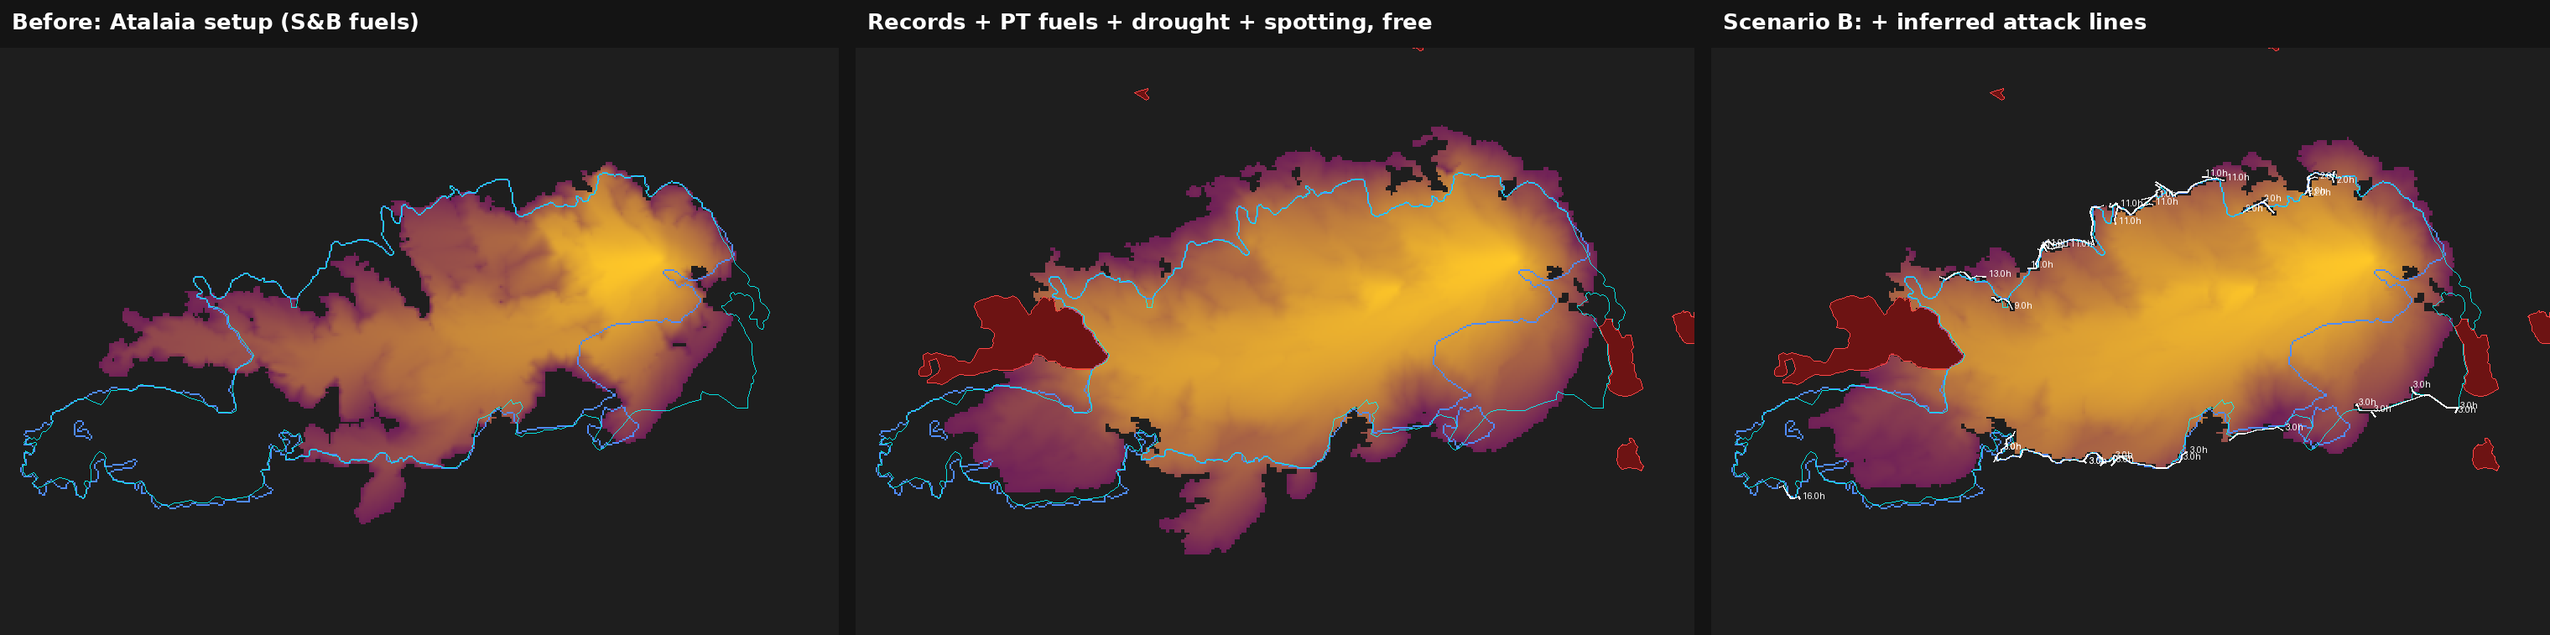
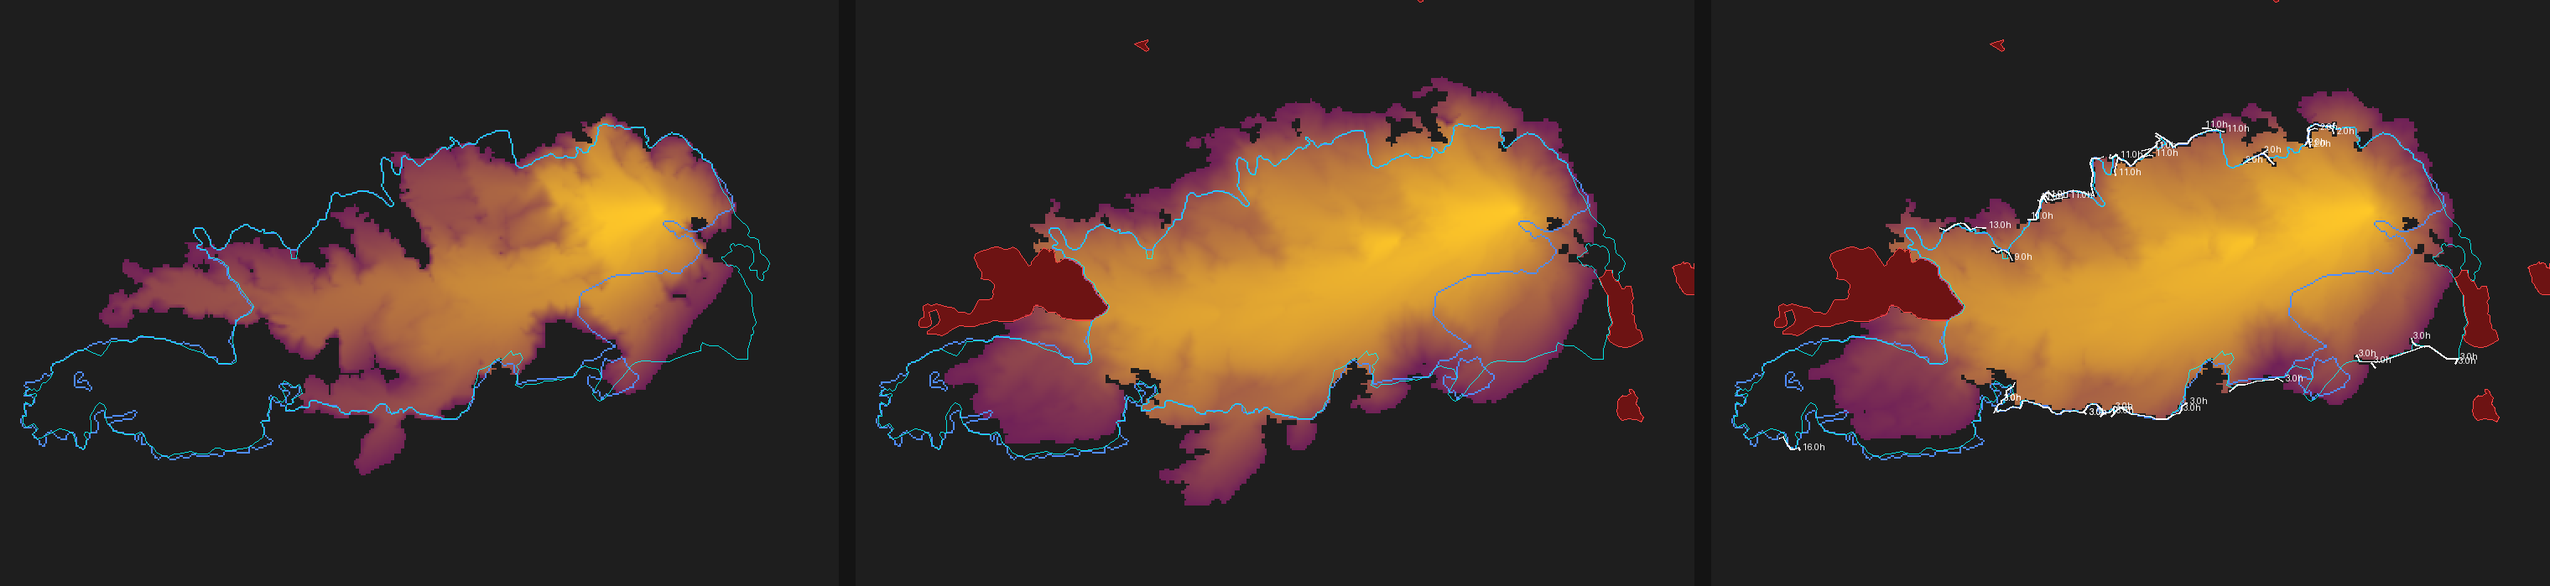
pitch: afinações de layout e conteúdo em vários slides
- Slide 2: aperta o espaço entre os grupos de dígitos dos números
  grandes (word-spacing negativo), que ficava muito largo com a
  fonte mono.
- Slide 5: as três pílulas (Rápida, Precisa, Prática) revelam-se uma
  de cada vez em vez de todas juntas.
- Slide 7 (proposta): números do roadmap maiores, sem o tracejado
  por trás; frase "Dados reais. Meios reais. Um só mapa." maior e
  centrada; acrescenta a frase sobre dados precisos e meios
  disponíveis por quartel ao guião.
- Slide 9 (validação): corta os títulos em inglês gravados nos
  pixéis da imagem (crop dos primeiros 58px); as setas passam a
  nomear a medida acrescentada ("+ Dados públicos", "+ Linhas de
  ataque") em letra maior.
- Slide 10 (tecnologia): mais espaço entre o título e os 4 cartões;
  frase de fecho mais para baixo e maior.
- Separa o antigo slide "a seguir + fecho" em dois: o roadmap fica
  sozinho (com o passo 2 reescrito para "Ferramenta de testes para
  potenciais cenários futuros"), e a frase de fecho ganha um slide
  próprio com "Obrigado."; números do roadmap maiores, sem
  tracejado, como no slide 7.
- Créditos: letra maior, remove o marcador ".tbd" sobre o ILS (já
  documentado como implementado) e a frase "como as regras pedem";
  crédito de IA passa a "Claude, Gemini e ChatGPT".

diff --git a/pitch/index.html b/pitch/index.html
@@ -123,6 +123,7 @@
 
     /* 2 · número grande */
     .big { font-family: var(--display); font-size: 4.2em; font-weight: 800; line-height: 1; letter-spacing: -0.01em; color: var(--ink); }
+    .big .count { word-spacing: -0.4em; }
     .big .unit { font-size: 0.35em; font-weight: 600; color: var(--ink-dim); letter-spacing: 0; }
     .row { display: flex; gap: 2.2em; align-items: flex-end; }
     .lead { font-size: 1.15em; font-weight: 600; color: var(--ink); margin: 0 0 0.3em; }
@@ -197,8 +198,8 @@
     .roadmap.visible .stop { animation: stop-in .45s ease forwards; }
     .roadmap .track { width: 0; height: 16px; margin-left: calc(.55em - 1px); border-left: 2px dashed var(--ink-faint); opacity: 0; transform: scaleY(0); transform-origin: top; }
     .roadmap.visible .track { animation: track-grow .35s ease forwards; }
-    .roadmap .node { flex: 0 0 auto; width: 1.1em; height: 1.1em; border-radius: 50%; border: 2px solid var(--ink-faint); display: flex; align-items: center; justify-content: center; font-family: var(--mono); font-size: .4em; color: var(--ink-dim); background: var(--bg); }
-    .roadmap .label { font-size: 1.3em; font-weight: 700; letter-spacing: -.01em; }
+    .roadmap .node { flex: 0 0 auto; width: 1.5em; height: 1.5em; border-radius: 50%; border: 2px solid var(--ink-faint); display: flex; align-items: center; justify-content: center; font-family: var(--mono); font-size: .6em; color: var(--ink-dim); background: var(--bg); }
+    .roadmap .label { font-size: 1.45em; font-weight: 700; letter-spacing: -.01em; }
     .roadmap .stop.final .node { border-color: var(--amber); color: var(--bg); background: var(--amber); box-shadow: 0 0 14px rgba(240, 163, 58, .55); }
     .roadmap .stop.final .label { color: var(--amber); }
     @keyframes stop-in { to { opacity: 1; transform: none; } }
@@ -207,7 +208,7 @@
     .roadmap.horizontal { display: flex; align-items: flex-start; }
     .roadmap.horizontal .stop { flex: 1 1 0; flex-direction: column; align-items: flex-start; gap: .5em; transform: translateY(-10px); }
     .roadmap.horizontal .stop.final { flex: 0 1 auto; }
-    .roadmap.horizontal .track { flex: 0 0 36px; width: auto; height: 0; margin: .55em -.2em 0; border-left: none; border-top: 2px dashed var(--ink-faint); transform: scaleX(0); transform-origin: left; }
+    .roadmap.horizontal .track { flex: 0 0 36px; width: auto; height: 0; margin: .55em -.2em 0; border: none; }
     .roadmap.horizontal .label { font-size: .85em; line-height: 1.3; max-width: 13em; }
     @keyframes stop-in-h { to { opacity: 1; transform: none; } }
     @keyframes track-grow-h { to { opacity: 1; transform: scaleX(1); } }
@@ -225,8 +226,8 @@
     .flow .step h3 { font-size: .85em; margin: 0 0 .3em; }
     .flow .step p { font-size: .55em; color: var(--ink-dim); margin: 0; line-height: 1.35; }
     .flow .step .step-src { font-family: var(--mono); font-size: .36em; letter-spacing: .03em; color: var(--ink-dim); margin-top: .6em; line-height: 1.4; }
-    .punch { margin-top: 1.3em; }
-    .punch .line { font-size: 1.15em; font-weight: 700; }
+    .punch { margin-top: 1.3em; text-align: center; }
+    .punch .line { font-size: 1.6em; font-weight: 700; }
     .punch .data-list { margin-top: .7em; font-size: .62em; color: var(--ink); line-height: 1.7; }
     .punch .data-list span:not(:last-child)::after { content: ' · '; color: var(--ink-faint); }
     .punch .who { font-family: var(--mono); font-size: 0.5em; letter-spacing: 0.1em; text-transform: uppercase; color: var(--ink-dim); margin-top: 0.8em; }
@@ -256,9 +257,10 @@
     .accuracy .acc-step { flex: 0 0 auto; }
     .accuracy .acc-n { display: block; font-family: var(--display); font-size: 1.6em; font-weight: 800; letter-spacing: -.01em; }
     .accuracy .acc-step.final .acc-n { color: var(--amber); }
-    .accuracy .acc-arrow { flex: 0 0 7em; text-align: center; padding-top: .05em; }
+    .accuracy .acc-arrow { flex: 0 0 9em; text-align: center; padding-top: .05em; }
     .accuracy .acc-arrow .arr { display: block; font-family: var(--mono); font-size: 1.1em; color: var(--amber); }
-    .accuracy .acc-arrow p { font-size: .4em; color: var(--ink-dim); margin: .25em 0 0; line-height: 1.3; }
+    .accuracy .acc-arrow .acc-name { display: block; font-size: .56em; font-weight: 700; color: var(--ink); margin-top: .3em; }
+    .accuracy .acc-arrow p { font-size: .5em; color: var(--ink-dim); margin: .2em 0 0; line-height: 1.3; }
     .legend b { display: inline-block; width: 12px; height: 12px; margin: 0 0.4em 0 1.2em; vertical-align: -1px; }
     .legend b:first-child { margin-left: 0; }
     .legend .sw { display: inline-block; vertical-align: -1px; margin: 0 0.4em 0 1.2em; }
@@ -270,12 +272,12 @@
     .kpi .l { font-size: 0.5em; color: var(--ink-dim); line-height: 1.3; }
 
     /* 6b · tecnologia: lista leve, sem caixas, traço à esquerda a cor fria (tom informativo, não de alerta) */
-    .tech-grid { display: grid; grid-template-columns: repeat(2, 1fr); gap: 1em 2.2em; margin-top: 1em; }
+    .tech-grid { display: grid; grid-template-columns: repeat(2, 1fr); gap: 1.6em 2.2em; margin-top: 2.2em; }
     .tech-item { display: flex; align-items: flex-start; gap: 1em; border-left: 2px solid var(--cool); padding-left: .8em; }
     .tech-item svg { width: 2.3em; height: 2.3em; flex-shrink: 0; margin-top: .1em; }
     .tech-item .t-name { display: block; font-size: 1.05em; font-weight: 700; margin-bottom: .25em; }
     .tech-item p { font-size: .6em; color: var(--ink-dim); margin: 0; line-height: 1.4; }
-    .tech .tech-close { font-size: .85em; color: var(--ink-dim); margin-top: 2.2em; max-width: 1500px; }
+    .tech .tech-close { font-size: 1.15em; font-weight: 700; color: var(--ink-dim); margin-top: 3.5em; max-width: 1500px; }
     /* o salto de precisão (0,73 → 0,76–0,79 → 0,84–0,85) anotado sob a própria imagem,
        alinhado com a fronteira entre os painéis a que se refere (os valores S já vêm na imagem) */
 
@@ -293,9 +295,10 @@
     .steps .k { font-family: var(--mono); font-size: 0.7em; letter-spacing: 0.16em; color: var(--ink-dim); text-transform: uppercase; display: block; margin-bottom: 0.3em; }
     .team { font-family: var(--mono); font-size: 0.42em; letter-spacing: 0.08em; color: var(--ink-dim); text-transform: uppercase; }
     .closing { font-size: 1.5em; font-weight: 700; line-height: 1.25; max-width: 1400px; }
+    .thanks { font-size: 2.6em; font-weight: 800; color: var(--amber); margin-top: .6em; }
 
     /* créditos */
-    .credits { columns: 2; column-gap: 2em; font-size: 0.42em; line-height: 1.5; color: var(--ink-dim); }
+    .credits { columns: 2; column-gap: 2em; font-size: 0.56em; line-height: 1.5; color: var(--ink-dim); }
     .credits p { break-inside: avoid; margin-bottom: 0.7em; }
     .credits strong { color: var(--ink); font-weight: 600; }
 
@@ -507,12 +510,12 @@
         <h3>Rápida.</h3>
         <span class="lbl">Em tempo real</span>
       </div>
-      <div class="pill fragment" data-fragment-index="0">
+      <div class="pill fragment" data-fragment-index="1">
         <svg viewBox="0 0 24 24" aria-hidden="true"><circle cx="12" cy="12" r="9"/><circle cx="12" cy="12" r="5"/><circle cx="12" cy="12" r="1.2"/></svg>
         <h3>Precisa.</h3>
         <span class="lbl">Fiel ao incêndio real</span>
       </div>
-      <div class="pill fragment" data-fragment-index="0">
+      <div class="pill fragment" data-fragment-index="2">
         <svg viewBox="0 0 24 24" aria-hidden="true"><path d="M3 6l6-2 6 2 6-2v14l-6 2-6-2-6 2z"/><path d="M9 4v14M15 6v14"/></svg>
         <h3>Prática.</h3>
         <span class="lbl">Clara para quem decide</span>
@@ -523,7 +526,9 @@
       10 s · Narrador
 
       "O desafio da Universidade do Minho: como simular alternativas de atuação, e melhorar a coordenação nos primeiros minutos?"
-      [clique] "Por isso: rápida, precisa, prática."
+      [clique] "Por isso: rápida."
+      [clique] "Precisa."
+      [clique] "E prática."
 
       Passagem: "A nossa resposta chama-se…" (logótipo)
     </aside>
@@ -558,6 +563,7 @@
       18 s · Condutor da demo
 
       [clique] "Para quem decide o ataque, a Atalaia monitoriza o fogo em tempo real, aloca os meios, prevê o comportamento do incêndio e comunica o comando de ação."
+      "Nós trabalhamos com dados precisos, com os meios que estão disponíveis ao momento em cada quartel, e tudo isto num só mapa."
       [clique] "Dados reais. Meios reais. Um só mapa."
       "Que estradas cortar. Quanto tempo até ao fogo. Que casas estão em risco. Para todos os que combatem."
 
@@ -598,9 +604,9 @@
     </div>
     <div class="accuracy">
       <div class="acc-step"><span class="acc-n">0,76</span></div>
-      <div class="acc-arrow"><span class="arr">→</span><p>+ dados públicos: combustíveis PT, LiDAR, cicatrizes, projeções</p></div>
+      <div class="acc-arrow"><span class="arr">→</span><strong class="acc-name">+ Dados públicos</strong><p>combustíveis PT, LiDAR, cicatrizes, projeções</p></div>
       <div class="acc-step"><span class="acc-n">0,83</span></div>
-      <div class="acc-arrow"><span class="arr">→</span><p>+ linhas de ataque inferidas</p></div>
+      <div class="acc-arrow"><span class="arr">→</span><strong class="acc-name">+ Linhas de ataque</strong><p>inferidas a partir do perímetro oficial</p></div>
       <div class="acc-step final"><span class="acc-n">0,89</span></div>
     </div>
     <div class="src">PT-FireSprd v1 (Benali et al., 2023) · hindcast ELMFIRE, ramo hindcast-registos</div>
@@ -663,23 +669,35 @@
     </aside>
   </section>
 
-  <!-- ============================== 9 · FECHO · 4:03–4:23 ============================== -->
-  <section data-timing="20">
+  <!-- ============================== 9 · A SEGUIR · 4:03–4:18 ============================== -->
+  <section data-timing="15">
     <span class="tag">A seguir · defender bem não basta, é preciso ver primeiro</span>
     <div class="roadmap horizontal fragment">
       <div class="stop" style="animation-delay:.05s"><span class="node">01</span><span class="label">Deteção por drones, mais rápida e económica</span></div>
       <div class="track" style="animation-delay:.35s"></div>
-      <div class="stop" style="animation-delay:.6s"><span class="node">02</span><span class="label">Treino com incêndios passados, com um modelo de treino próprio para os bombeiros</span></div>
+      <div class="stop" style="animation-delay:.6s"><span class="node">02</span><span class="label">Ferramenta de testes para potenciais cenários futuros</span></div>
       <div class="track" style="animation-delay:.9s"></div>
       <div class="stop final" style="animation-delay:1.15s"><span class="node">03</span><span class="label">IA a afinar a estratégia mais otimizada</span></div>
     </div>
+    <aside class="notes">
+      15 s · Continuidade
+
+      "A seguir: drones para detetar mais cedo, não só defender melhor; uma ferramenta de testes para potenciais cenários futuros; e, mais à frente, IA a afinar a própria estratégia."
+
+      Passagem: "Em 2025 arderam 11 Guimarães."
+    </aside>
+  </section>
+
+  <!-- ============================== 10 · FECHO + OBRIGADO · 4:18–4:28 ============================== -->
+  <section data-timing="10">
     <p class="closing fragment">Em 2025 arderam 11 Guimarães.<br><span class="dim">Com a Atalaia, quem decide vê o que vai arder, <span class="fire">para cada decisão</span>, antes de enviar os meios.</span></p>
+    <p class="thanks fragment">Obrigado.</p>
     <div class="src team">Equipa Atalaia · João Folhadela · Carlos Teixeira · Bruno Ramos · Mara Alves · Hugo Martins</div>
     <aside class="notes">
-      20 s · Continuidade (roadmap) → Narrador (fecho)
+      10 s · Narrador
 
-      Continuidade: "A seguir: drones para detetar mais cedo, não só defender melhor; treino com incêndios passados, com um modelo de treino próprio para os bombeiros; e, mais à frente, IA a afinar a própria estratégia."
-      [clique] Narrador: "Em 2025 arderam 11 Guimarães. (pausa) Com a Atalaia, quem decide vê o que vai arder, para cada decisão, antes de enviar os meios. Obrigado."
+      "Em 2025 arderam 11 Guimarães." (pausa) "Com a Atalaia, quem decide vê o que vai arder, para cada decisão, antes de enviar os meios."
+      [clique] "Obrigado."
     </aside>
   </section>
 
@@ -696,10 +714,10 @@
       <p><strong>Meteorologia:</strong> ERA5 via Open-Meteo; CERRA (Copernicus).</p>
       <p><strong>Índice de perigo:</strong> FWI canadiano, Van Wagner (1987); Lawson &amp; Armitage (2008).</p>
       <p><strong>Meios:</strong> Matos (2025), tese de doutoramento, Universidade do Minho, hdl 1822/97938 (CC BY-NC-SA 4.0); INE; CAOP2025 (DGT, CC BY 4.0).</p>
-      <p><strong>Otimização:</strong> Mendes &amp; Alvelos (2023), <em>European Journal of Operational Research</em> 304(3), doi:10.1016/j.ejor.2022.04.037. <span class="tbd">só se o ILS entrar</span></p>
+      <p><strong>Otimização:</strong> Mendes &amp; Alvelos (2023), <em>European Journal of Operational Research</em> 304(3), doi:10.1016/j.ejor.2022.04.037.</p>
       <p><strong>Mapa e dados vetoriais:</strong> CesiumJS e Cesium ion; © contribuidores do OpenStreetMap (ODbL).</p>
       <p><strong>Apresentação:</strong> reveal.js (MIT).</p>
-      <p><strong>IA:</strong> assistentes de programação (Claude, Anthropic) usados no código e nos documentos, como as regras pedem.</p>
+      <p><strong>IA:</strong> assistentes de programação (Claude, Gemini e ChatGPT) usados no código e nos documentos.</p>
     </div>
     <aside class="notes">Fora do tempo. Fica no fim para o júri e para o PDF da submissão.</aside>
   </section>

diff --git a/pitch/GUIAO.md b/pitch/GUIAO.md
@@ -3,10 +3,11 @@
 Texto para ensaiar, tirado das notas do orador de `index.html`. Fala corrida, sem
 sourcing nem ressalvas (isso fica em `FONTES.md`, para o Q&A).
 
-⚠ **Tempo:** a soma dos slides já passa dos 4:00 (263 s = 4:23). O slide 4 foi
-dividido em dois (ferramentas que falham + desafio da UMinho) e há um slide de
-tecnologia (8b) sem cortar nada a jusante. Cronometrar a fala real antes do dia e,
-se for preciso, encurtar a demo (está a 112 s) ou outro slide.
+⚠ **Tempo:** a soma dos slides já passa dos 4:00 (268 s = 4:28). O slide 4 foi
+dividido em dois (ferramentas que falham + desafio da UMinho) e o fecho também
+(roadmap "a seguir" + fecho/obrigado), mais um slide de tecnologia (8b), sem
+cortar nada a jusante. Cronometrar a fala real antes do dia e, se for preciso,
+encurtar a demo (está a 112 s) ou outro slide.
 
 ---
 
@@ -72,9 +73,17 @@ se for preciso, encurtar a demo (está a 112 s) ou outro slide.
 > "O desafio da Universidade do Minho: como simular alternativas de atuação,
 > e melhorar a coordenação nos primeiros minutos?"
 
-**[clique]** *(mostrar as três pílulas: Rápida, Precisa, Prática)*
+**[clique]**
 
-> "Por isso: rápida, precisa, prática."
+> "Por isso: rápida."
+
+**[clique]**
+
+> "Precisa."
+
+**[clique]**
+
+> "E prática."
 
 *Passagem: "A nossa resposta chama-se…" (logótipo)*
 
@@ -96,6 +105,9 @@ terminar, ~3 s, antes de avançar)*
 
 > "Para quem decide o ataque, a Atalaia monitoriza o fogo em tempo real, aloca os
 > meios, prevê o comportamento do incêndio e comunica o comando de ação."
+
+> "Nós trabalhamos com dados precisos, com os meios que estão disponíveis ao
+> momento em cada quartel, e tudo isto num só mapa."
 
 **[clique]**
 
@@ -167,22 +179,30 @@ apoio arranca o vídeo no mesmo ponto e o condutor continua a falar.*
 
 ---
 
-## 9 · A seguir + fecho — 4:03–4:23 — Continuidade → Narrador
+## 9 · A seguir — 4:03–4:18 — Continuidade
 
 **[clique]** *(o roadmap desenha-se sozinho, um clique só)*
 
-> "A seguir: drones para detetar mais cedo, não só defender melhor; treino com
-> incêndios passados, com um modelo de treino próprio para os bombeiros; e, mais à
-> frente, IA a afinar a própria estratégia."
+> "A seguir: drones para detetar mais cedo, não só defender melhor; uma
+> ferramenta de testes para potenciais cenários futuros; e, mais à frente, IA a
+> afinar a própria estratégia."
 
-**[clique]** — Narrador:
-
-> "Em 2025 arderam 11 Guimarães." *(pausa)* "Com a Atalaia, quem decide vê o que vai
-> arder, para cada decisão, antes de enviar os meios. Obrigado."
+*Passagem: "Em 2025 arderam 11 Guimarães."*
 
 ---
 
-## 10 · Créditos (fora do tempo)
+## 10 · Fecho + obrigado — 4:18–4:28 — Narrador
+
+> "Em 2025 arderam 11 Guimarães." *(pausa)* "Com a Atalaia, quem decide vê o que
+> vai arder, para cada decisão, antes de enviar os meios."
+
+**[clique]**
+
+> "Obrigado."
+
+---
+
+## 11 · Créditos (fora do tempo)
 
 Fica no fim, só para o júri e para o PDF da submissão — não se lê em voz alta.
 
@@ -190,8 +210,8 @@ Fica no fim, só para o júri e para o PDF da submissão — não se lê em voz 
 
 ## Notas de palco
 
-- **Quem fala cada slide:** Narrador (1, 2, 3, 4, 5, 9-fecho) · Condutor da demo
-  (6, 7) · Técnico (8, 8b) · Continuidade (9-abertura).
+- **Quem fala cada slide:** Narrador (1, 2, 3, 4, 5, 10) · Condutor da demo (6, 7)
+  · Técnico (8, 8b) · Continuidade (9).
 - **Teclas da demo:** espaço, setas, R, H, D, L, S — as mesmas do reveal.js, por isso a
   app corre numa janela à parte, nunca dentro dos slides.
 - **Vista do orador:** tecla **S** no reveal, mostra este texto mais as notas técnicas e

diff --git a/pitch/FONTES.md b/pitch/FONTES.md
@@ -171,9 +171,15 @@ Regras (do README do hindcast, não negociáveis):
   é outra corrida/versão do hindcast. Confirmar com quem gerou a imagem que esta
   é a versão final antes do pitch; se não for, repor os números antigos e a
   imagem antiga (`img/vieira_validation_0830.png`, 4 painéis).
+- IMAGEM CORTADA (23 out): os títulos em inglês de cada painel ("Before: Atalaia
+  setup (S&B fuels)", etc.) vinham gravados nos pixéis da imagem; cortámos a
+  faixa do topo (os primeiros 58 px da imagem original, 3040×757) para tirá-los
+  do slide. Se a imagem for regenerada, repetir o corte ou gerar já sem o texto.
 - A imagem atual mostra dois pontos no tempo por painel (15:00 e 08:30), não só o
   08:30 único que está no título do slide; confirmar se o título deve passar a
   mencionar os dois horários.
+- As setas passam a nomear a medida acrescentada ("+ Dados públicos", "+ Linhas
+  de ataque") antes do detalhe, em vez de só o detalhe solto.
 - As linhas de ataque são inferidas (attack.py) de onde o perímetro oficial parou
   ao longo das estradas: melhoram o Sørensen em parte por construção. Nunca dizer
   que vêm "dos registos".
@@ -221,7 +227,7 @@ Regras (do README do hindcast, não negociáveis):
 
 ---
 
-## 9 · A seguir + fecho
+## 9 · A seguir
 
 - Passo 1 (deteção): a ideia-chave é que o potencial de melhoria não está só em
   defender melhor, está em detetar mais cedo. Drones em patrulha reduzem o tempo
@@ -230,20 +236,31 @@ Regras (do README do hindcast, não negociáveis):
   confirmar o nome exato e a citação antes de a atribuir em palco; por agora,
   dizer "segundo um ex-comandante dos bombeiros de Guimarães com quem falámos",
   sem apontar números de custo que não temos confirmados.
-- Passo 2 (treino): incêndios passados como exercícios para os bombeiros do
-  distrito e a UMinho, com a possibilidade de construirmos um modelo de treino
-  próprio (simulação dedicada a formação, não só ao incidente real). Ainda é
-  intenção, não trabalho feito: dizer "podemos integrar", não "já temos".
+- Passo 2 (ferramenta de testes): o modelo permite não só tomar decisões em
+  tempo real, como também ser uma ferramenta de testes para potenciais
+  cenários antes de acontecerem — treino com incêndios passados como exercício
+  para os bombeiros do distrito e a UMinho. Ainda é intenção, não trabalho
+  feito: dizer "podemos integrar", não "já temos".
 - Passo 3 (IA): ainda é visão, não trabalho feito. Dizer "a afinar", não "já
   afina". É o horizonte do roadmap, por isso fica a âmbar, como destino.
 - O "piloto em Guimarães" saiu do roadmap a pedido; já não é preciso confirmar
   o apoio do Prof. Paulo Afonso para este slide.
+- Este slide ficou só com o roadmap; o fecho ("Em 2025 arderam 11 Guimarães" +
+  "Obrigado") passou para um slide à parte (10), para dar espaço às duas ideias.
+
+---
+
+## 10 · Fecho + obrigado
+
 - "11 Guimarães" em 2025: mesmo cálculo do slide 2 (270 695 ha ÷ 241,7 km² do
   concelho ≈ 11,2). O fecho repete esse número de propósito, agora com o valor
   de 2025. Segurar a pausa depois de "11 Guimarães".
 
 ---
 
-## 10 · Créditos
+## 11 · Créditos
 
-Fora do tempo. Fica no fim para o júri e para o PDF da submissão.
+Fora do tempo. Fica no fim para o júri e para o PDF da submissão. O marcador
+`.tbd` sobre o ILS saiu: `docs/ils.md` no main já documenta a funcionalidade
+como implementada (ver "Demo timeline replanning"), por isso o crédito da
+otimização deixou de ser condicional.

diff --git a/pitch/README.md b/pitch/README.md
@@ -20,12 +20,15 @@ Abrir http://127.0.0.1:8642. **S** abre a vista do orador (só o texto a dizer e
 | 7 | **Demo ao vivo (placeholder)** | 1:31–3:23 |
 | 8 | Validação: Vieira do Minho | 3:23–3:43 |
 | 8b | A tecnologia por baixo: ELMFIRE, vento, ILS, tradutor | 3:43–4:03 |
-| 9 | A seguir + fecho | 4:03–4:23 |
-| 10 | Créditos (fora do tempo) | |
+| 9 | A seguir: deteção, testes de cenários, IA | 4:03–4:18 |
+| 10 | Fecho + obrigado | 4:18–4:28 |
+| 11 | Créditos (fora do tempo) | |
 
 O slide "O que é novo" (a tabela de comparação com fogos.pt, IPMA/EFFIS, Copernicus EMS, incendiosportugal.pt) foi cortado por repetir o argumento do slide 4; esse argumento agora é o próprio slide 4, mais completo (ferramenta vs. o que falha), separado do desafio da UMinho (slide 5).
 
-Os tempos da coluna acima são estimativas por slide, não cronometragem real: a soma (4:23) já passa dos 4:00. Por fazer: cronometrar a fala real de cada slide e cortar onde for preciso antes do pitch final.
+O antigo slide 9 ("a seguir" + fecho juntos) também foi dividido em dois: o roadmap "a seguir" fica sozinho, e "Em 2025 arderam 11 Guimarães" + "Obrigado" passam a ser o fecho, no seu próprio slide.
+
+Os tempos da coluna acima são estimativas por slide, não cronometragem real: a soma (4:28) já passa dos 4:00. Por fazer: cronometrar a fala real de cada slide e cortar onde for preciso antes do pitch final.
 
 - Os números grandes (gancho, sequência de precisão) usam JetBrains Mono (Bold/ExtraBold), guardado em `vendor/fonts/` (SIL OFL) para correr sem rede, tal como o resto do `vendor/`.
 - A demo corre numa janela própria do browser, não dentro dos slides: a app e o reveal usam as mesmas teclas.
